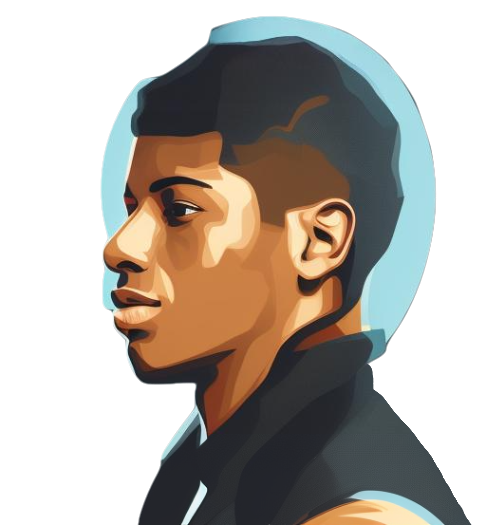
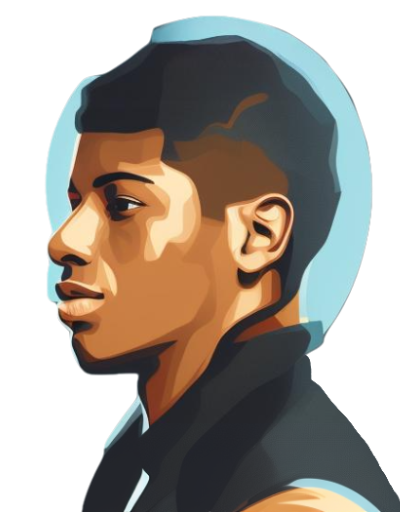
Update: style

diff --git a/src/components/layouts/SidebarNav.tsx b/src/components/layouts/SidebarNav.tsx
@@ -10,19 +10,24 @@ export default async function SidebarNav({ lang }: SidebarProps) {
   const { mainNav, name } = await getSiteConfig(lang)
   const { commons } = await getDictionary(lang)
   return (
-    <aside className="fixed right-0 top-0 flex h-screen w-64 flex-col items-center justify-center gap-10 overflow-y-auto bg-background px-3 py-4" aria-label={commons.sidebarNav}>
-        <Image src="/images/profile.png" alt={name} width={200} height={200} />
+    <aside className="fixed right-0 top-0 flex h-screen w-64 flex-col items-center justify-center gap-8 overflow-y-auto bg-foreground px-3 py-4" aria-label={commons.sidebarNav}>
+      <Image src="/images/profile.png" alt={name} priority width={200} height={256} />
+
       <ul className="w-full space-y-2">
         {
           mainNav.map(item => (
             <li key={item.title} className="text-center">
-              <Link href="#" className="p-2 text-lg font-semibold text-primary transition hover:text-foreground" aria-label={item.title}>
+              <Link href="#" className="p-2 text-lg font-semibold text-primary transition hover:text-primary-foreground" aria-label={item.title}>
                 {item.title}
               </Link>
             </li>
           ))
         }
       </ul>
+      <div className="fixed bottom-10 right-0 flex w-64 items-center justify-center gap-4 text-primary">
+        <p>change language</p>
+        <p>change theme</p>
+      </div>
     </aside>
   )
 }

diff --git a/src/styles/global.css b/src/styles/global.css
@@ -25,6 +25,6 @@
   }
 
   body {
-    @apply bg-foreground text-background;
+    @apply bg-background text-foreground;
   }
 }
